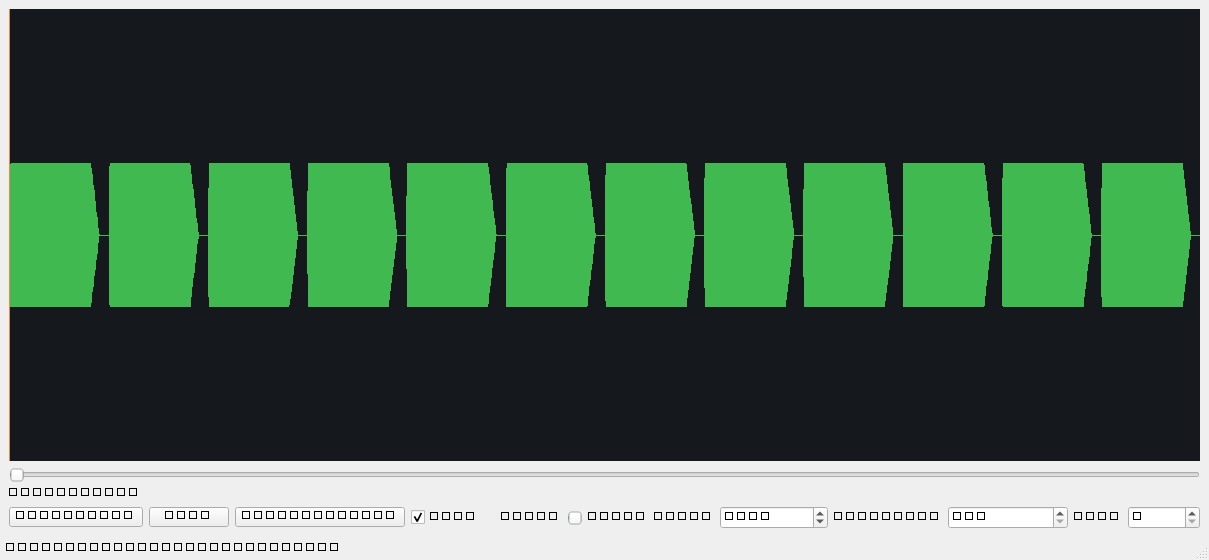
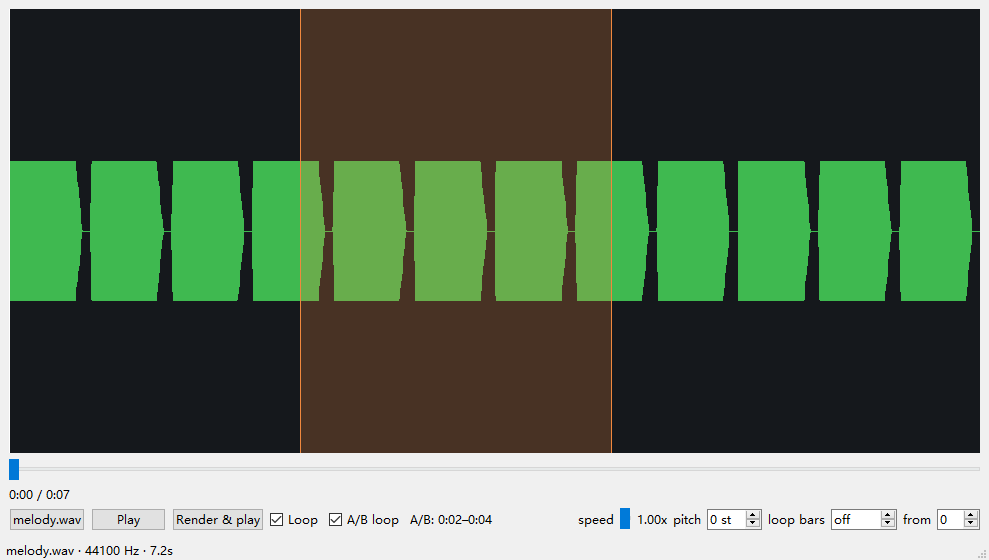
feat(gui): drag-select A/B loop region on the waveform
- waveform mouse drag defines an A/B region (double-click clears), painted as
  translucent overlay with edge markers
- 'A/B loop' check makes render_preview use the selection (takes precedence
  over bar loops); label shows A/B times
- tests: GUI A/B render duration == 25% of source; docs screenshot refreshed
- tests: 38 passing

diff --git a/src/musicfab/gui.py b/src/musicfab/gui.py
@@ -37,12 +37,17 @@ def _make_waveform_class():
 
     class Waveform(QtWidgets.QWidget):
         positionChanged = QtCore.Signal(float)
+        selectionChanged = QtCore.Signal(float, float)
 
         def __init__(self) -> None:
             super().__init__()
             self._peaks = []  # list of (min, max) per column
             self._progress = 0.0
+            self._sel_start = None
+            self._sel_end = None
+            self._drag_anchor = None
             self.setMinimumHeight(120)
+            self.setMouseTracking(True)
             self.setSizePolicy(QtWidgets.QSizePolicy.Expanding, QtWidgets.QSizePolicy.Expanding)
 
         def set_peaks(self, peaks) -> None:
@@ -52,6 +57,46 @@ def _make_waveform_class():
         def set_progress(self, value: float) -> None:
             self._progress = max(0.0, min(1.0, float(value)))
             self.update()
+
+        def set_selection(self, start, end) -> None:
+            if start is None or end is None:
+                self._sel_start = self._sel_end = None
+            else:
+                a, b = sorted((float(start), float(end)))
+                self._sel_start = max(0.0, min(1.0, a))
+                self._sel_end = max(0.0, min(1.0, b))
+            self.update()
+            if self._sel_start is not None:
+                self.selectionChanged.emit(self._sel_start, self._sel_end)
+
+        def selection(self):
+            if self._sel_start is None:
+                return None
+            return (self._sel_start, self._sel_end)
+
+        # -- mouse: drag to define an A/B loop region -------------------
+        def _fraction(self, event) -> float:
+            x = event.position().x() if hasattr(event, "position") else event.x()
+            return max(0.0, min(1.0, x / max(1, self.width())))
+
+        def mousePressEvent(self, event) -> None:  # noqa: N802
+            if not self._peaks:
+                return
+            self._drag_anchor = self._fraction(event)
+            self.set_selection(self._drag_anchor, self._drag_anchor)
+
+        def mouseMoveEvent(self, event) -> None:  # noqa: N802
+            if self._drag_anchor is None or not self._peaks:
+                return
+            self.set_selection(self._drag_anchor, self._fraction(event))
+
+        def mouseReleaseEvent(self, event) -> None:  # noqa: N802
+            self._drag_anchor = None
+
+        def mouseDoubleClickEvent(self, event) -> None:  # noqa: N802
+            self._drag_anchor = None
+            self.set_selection(None, None)
+            self.selectionChanged.emit(0.0, 0.0)
 
         def paintEvent(self, event) -> None:  # noqa: N802 - Qt naming
             painter = QtGui.QPainter(self)
@@ -68,8 +113,15 @@ def _make_waveform_class():
             for x in range(width):
                 lo, hi = self._peaks[min(len(self._peaks) - 1, int(x * step))]
                 painter.drawLine(x, int(mid - hi * mid), x, int(mid - lo * mid))
+            if self._sel_start is not None:
+                x0 = int(self._sel_start * width)
+                x1 = int(self._sel_end * width)
+                painter.fillRect(x0, 0, max(1, x1 - x0), height, QtGui.QColor(240, 136, 62, 60))
+                painter.setPen(QtGui.QPen(QtGui.QColor("#f0883e"), 1))
+                painter.drawLine(x0, 0, x0, height)
+                painter.drawLine(x1, 0, x1, height)
             px = int(self._progress * width)
-            painter.setPen(QtGui.QPen(QtGui.QColor("#f0883e"), 2))
+            painter.setPen(QtGui.QPen(QtGui.QColor("#ffffff"), 2))
             painter.drawLine(px, 0, px, height)
             painter.end()
 
@@ -98,6 +150,8 @@ def make_window():
 
             self.waveform = Waveform()
             self.waveform.positionChanged.connect(self._seek)
+            self.waveform.selectionChanged.connect(self._on_selection)
+            self._sel: tuple[float, float] | None = None
 
             self.open_btn = QtWidgets.QPushButton("Open audio…")
             self.play_btn = QtWidgets.QPushButton("Play")
@@ -106,6 +160,10 @@ def make_window():
             self.render_btn.setEnabled(False)
             self.loop_check = QtWidgets.QCheckBox("Loop")
             self.loop_check.setChecked(True)
+            self.ab_check = QtWidgets.QCheckBox("A/B loop")
+            self.ab_check.setEnabled(False)
+            self.sel_label = QtWidgets.QLabel("A/B: —")
+            self.sel_label.setMinimumWidth(150)
 
             self.speed = QtWidgets.QSlider(QtCore.Qt.Horizontal)
             self.speed.setRange(50, 150)
@@ -140,6 +198,8 @@ def make_window():
             controls.addWidget(self.play_btn)
             controls.addWidget(self.render_btn)
             controls.addWidget(self.loop_check)
+            controls.addWidget(self.ab_check)
+            controls.addWidget(self.sel_label)
             controls.addSpacing(12)
             controls.addWidget(QtWidgets.QLabel("speed"))
             controls.addWidget(self.speed, 1)
@@ -187,7 +247,25 @@ def make_window():
             self.statusBar().showMessage(
                 f"{self.audio_path.name} · {info.get('sample_rate', sr)} Hz · {self._duration:.1f}s"
             )
+            self._sel = None
+            self.waveform.set_selection(None, None)
+            self.ab_check.setEnabled(False)
+            self.ab_check.setChecked(False)
+            self.sel_label.setText("A/B: —")
             self._on_duration(int(self._duration * 1000))
+
+        def _on_selection(self, start: float, end: float) -> None:
+            if start is None or end is None or abs(end - start) < 1e-4:
+                self._sel = None
+                self.ab_check.setEnabled(False)
+                self.ab_check.setChecked(False)
+                self.sel_label.setText("A/B: —")
+                return
+            self._sel = (min(start, end), max(start, end))
+            self.ab_check.setEnabled(True)
+            self.sel_label.setText(
+                f"A/B: {_fmt(self._sel[0] * self._duration * 1000)}–{_fmt(self._sel[1] * self._duration * 1000)}"
+            )
 
         # -- rendering -------------------------------------------------
         def render_preview(self, output: str | Path) -> Path:
@@ -198,8 +276,10 @@ def make_window():
             tempo = self.speed.value() / 100.0
             semitones = float(self.semi.value())
             loop = None
+            if self._sel and self.ab_check.isChecked():
+                loop = (self._sel[0] * self._duration, self._sel[1] * self._duration)
             bars = int(self.bar_loop.value())
-            if bars > 0:
+            if loop is None and bars > 0:
                 from .modules.beats import detect_beats
 
                 info = detect_beats(self.audio_path)

diff --git a/tests/test_gui.py b/tests/test_gui.py
@@ -30,3 +30,26 @@ def test_gui_smoke(tmp_path: Path):
     out = window.render_preview(tmp_path / "preview.wav")
     assert out.exists() and out.stat().st_size > 1000
     window.close()
+
+
+def test_gui_ab_selection_limits_render(tmp_path: Path):
+    pytest.importorskip("PySide6")
+    audio = FIX / "melody.wav"
+    if not audio.exists():
+        pytest.skip("fixture melody.wav missing")
+    from PySide6 import QtWidgets
+    from musicfab.gui import make_window
+
+    app = QtWidgets.QApplication.instance() or QtWidgets.QApplication([])
+    Window = make_window()
+    window = Window(str(audio))
+    source_duration = window._duration
+    window.waveform.set_selection(0.25, 0.5)
+    window.ab_check.setChecked(True)
+    out = window.render_preview(tmp_path / "ab.wav")
+    import soundfile as sf
+
+    info = sf.info(str(out))
+    rendered = info.frames / info.samplerate
+    assert rendered == pytest.approx(source_duration * 0.25, rel=0.15)
+    window.close()

diff --git a/README.md b/README.md
@@ -41,7 +41,7 @@ musicfab daw stems/ -o stems/daw/                    # 打包 DAW 工程
 | `probe` | 查看音频信息（格式/采样率/时长/声道） | ✅ |
 | `transcribe` | 音频转 MIDI/MusicXML（AnthemScore 替代） | ✅ basic-pitch(ONNX) / PTI；`--auto-tempo` 自动测速；`--quantize-beats` 按拍点量化 |
 | `practice` | 变速/移调/循环练习（Transcribe! 替代） | ✅ `--loop-beats N` 按拍点、`--loop-bars N` 按小节循环 |
-| `gui` | 离线练习播放器（波形/变速/移调/循环） | ✅ `pip install "musicfab[gui]"` 后 `musicfab gui file.wav` |
+| `gui` | 离线练习播放器（波形/拖拽 A/B 选区/变速/移调/按小节循环） | ✅ `pip install "musicfab[gui]"` 后 `musicfab gui file.wav` |
 | `shift` | 整段变调（Melodyne 替代） | ✅ |
 | `notes` | 逐音编辑 + 重合成（Melodyne 替代） | ✅ 变调/时值/力度，只改选中音符 |
 | `separate` | 分轨（RipX 替代） | ✅ htdemucs 4 轨；分块 overlap-add；`--transcribe` 逐轨转谱 + `--auto-tempo` + `--quantize-beats` |

diff --git a/docs/PLAN.md b/docs/PLAN.md
@@ -20,7 +20,7 @@
 - shift：相位声码器变调（音频级）+ `shift_notes`（谱面级，不改音频）
 - notes：逐音编辑（semitones / start_shift / duration_scale / velocity_scale），只重合成被编辑片段，其余原音保留 ✅
 - 验收：0.5x 时长≈2x（容差 25%）✅；+12 半音主频≈2x ✅
-- GUI：`musicfab gui`（波形/变速/移调/小节循环，PySide6 可选依赖）✅
+- GUI：`musicfab gui`（波形/拖拽 A/B 选区/变速/移调/小节循环，PySide6 可选依赖）✅
 
 ## Phase 3 — separate（RipX）✅
 - Demucs htdemucs（4 轨：drums/bass/other/vocals），权重首次自动下载（80 MB）

diff --git a/docs/INSTALL.md b/docs/INSTALL.md
@@ -36,7 +36,7 @@ pip install "musicfab[gui]"     # PySide6
 musicfab gui song.wav
 ```
 
-界面功能：波形总览、播放/暂停、0.5x–1.5x 变速、±12 半音移调、按小节循环（用自动检测拍号）。
+界面功能：波形总览、**鼠标拖拽 A/B 选区循环**（双击清除）、播放/暂停、0.5x–1.5x 变速、±12 半音移调、按小节循环（自动检测拍号与下拍）。
 渲染在本地完成（与 `musicfab practice` 同一套相位声码器），不联网。
 
 ## 3. 测试与演示
